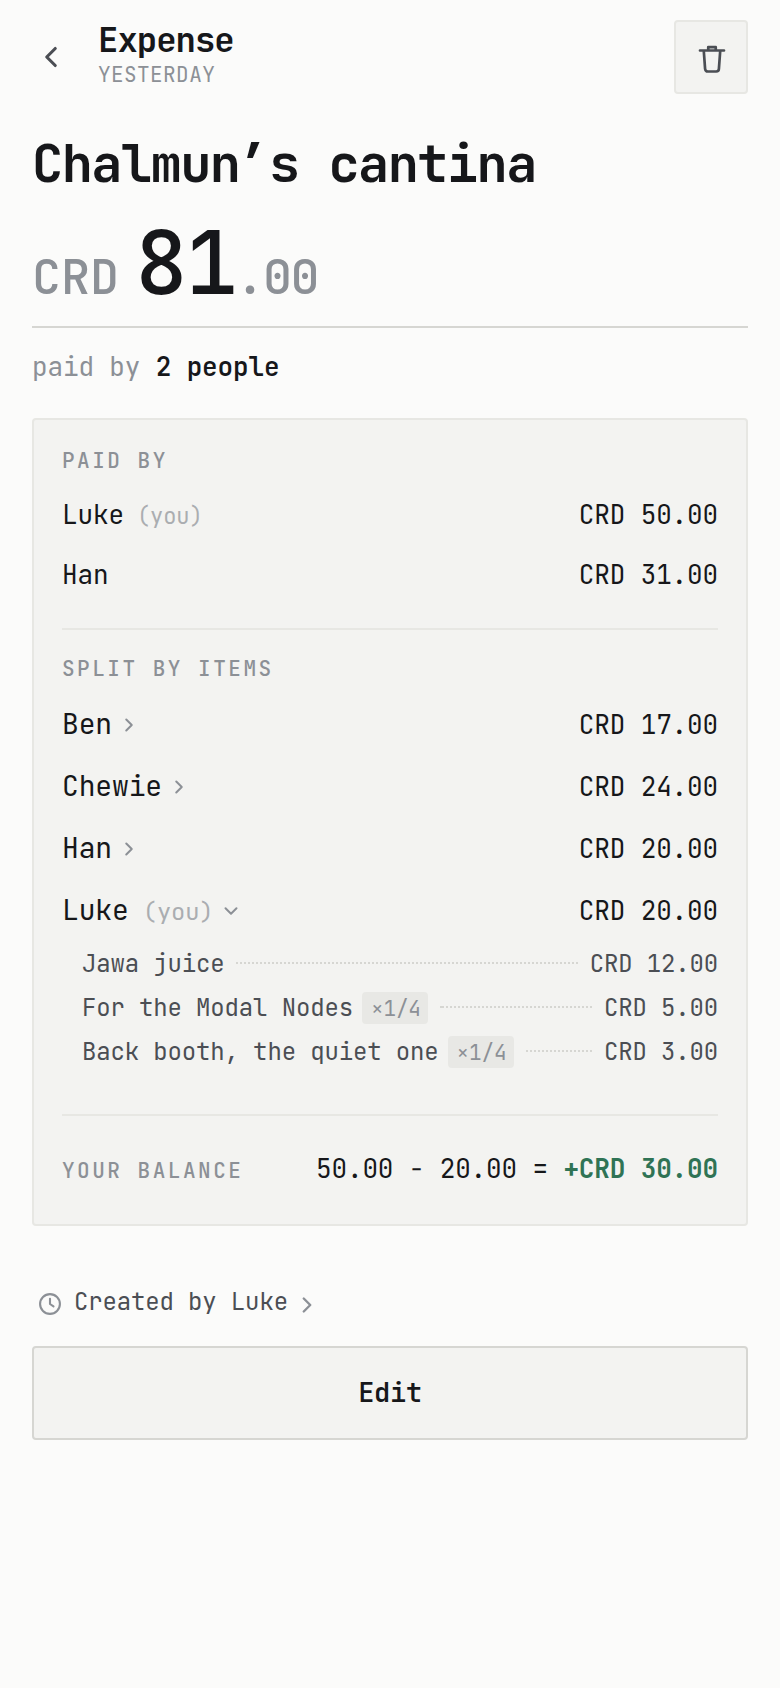
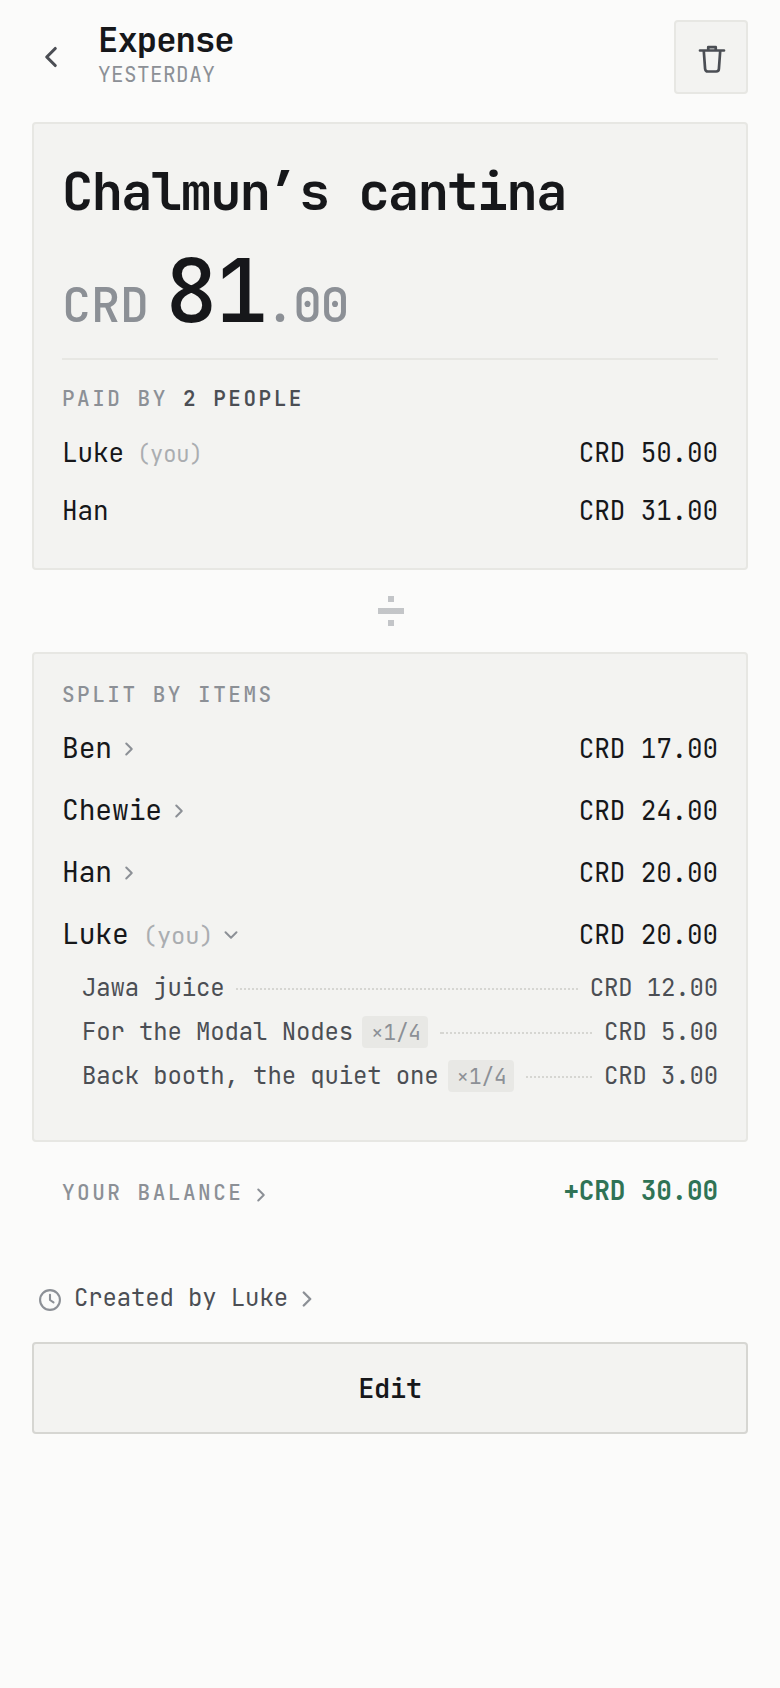
docs: retake the README's screenshots
Claude-Session: https://claude.ai/code/session_018oviYzZvSY6RzMhRFyUb8x

diff --git a/docs/claude-corner.md b/docs/claude-corner.md
@@ -25,6 +25,10 @@ restating what the code enforces. What gets praised is deleting.
 *Dated, newest first. Before evicting one, ask what it taught: if the lesson
 has gone general, edit a sentence above to hold it. Usually it just goes.*
 
+- *2026-10-07* — "Retake the screenshots", nothing else. The committed six
+  are the ones that go stale, so `readme-shots`; rebuild, look at each
+  changed picture, and reshoot if dev moves under you before the push.
+
 - *2026-10-07* — Save's slide, narrowed to "only the error text", then "it's
   buggy … remove the sliding completely". Motion borrowed from a screen where
   things fold felt wrong where nothing does; when a tuning turn finds a bug,
@@ -74,8 +78,3 @@ has gone general, edit a sentence above to hold it. Usually it just goes.*
 - *2026-10-07* — "Least or most obvious first?" asked inside a build request,
   overturning a documented "point, don't explain". Answer with a pick and its
   reason, build that, and rewrite the doc's rule rather than defend it.
-
-- *2026-10-06* — Brackets to a second line took four mock rounds: "roomier",
-  "centred", then "ship that" — and mid-ship, "actually, smaller sizes". A
-  live size toggle on the mock let them pick 12px alone. A ship order can be
-  recalled: commit only once they stop tuning.
